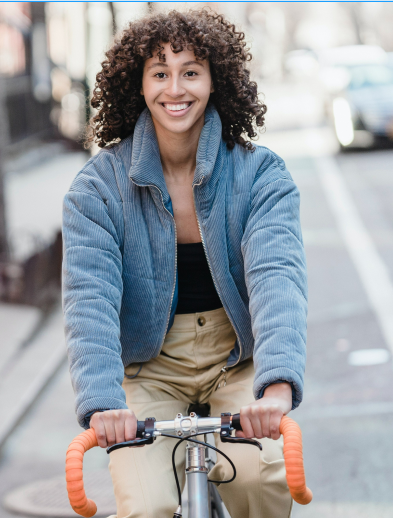
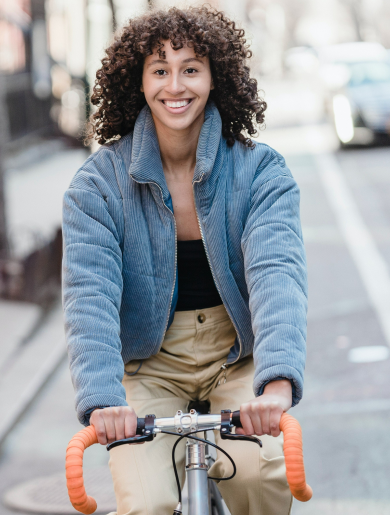
added styling

diff --git a/index.html b/index.html
@@ -9,31 +9,39 @@
 </head>
 <body>
     
-    <div>
-        <h1> Login</h1>
+    <div class="initialdiv">
 
-        <h5>Enter your credential to access your account.</h5>
+        <div class="firstdiv">    
+            <h1> Login</h1>
+            <h6>Enter your credential to access your account.</h6>
+            <a href="https://www.google.com"> 
+                <button class="google"><img class="logo" src="assets/google.png"> Login with Google</button></a>
+            
+            <div class="or">Or</div>
 
-        <a href="https://www.google.com"> <button class="google"> Login with Google</button></a>
+            <div class="email">
+                <span class="emailtext">Email address</span>
+            </div>
 
-        <div class="or">Or</div>
-
-        <div class="email">
-            <span class="emailtext">Email address</span>
             <input type="email">
-        </div>
 
-        <div class="password">
-            <span class="passwordtext">Password</span>
-            <a href="#">Forgot Password?</a>
+            <div class="password">
+                <span class="passwordtext">Password</span>
+                <span class="forgot"><a href="#">Forgot Password?</a></span> 
+            </div>
+
             <input type="password">
+            
+            <a href="#"><button class="login">Login</button></a>
+            
+            <span> Don't have an account? </span> 
+            
+            <a class="register" href="#"> Register here.</a>
+            
+            <div class="image"> <img src="assets/girl.png" alt="smiling girl on a bike"></div>
+        
         </div>
 
-        <button class="login">Login</button>
-        <span> Don't have an account? </span> 
-        <a class="register" href="#"> Register here.</a>
     </div>
-    <aside> <img src="assets/girl.png" alt="smiling girl on a bike"></aside>
-
 </body>
 </html>

diff --git a/style.css b/style.css
@@ -1,0 +1,77 @@
+*{
+    margin: 0;
+    padding: 0;
+    text-decoration: none;
+}
+
+body{
+    /* background-color: #f5f5f5 */
+    background-color: aqua;
+}
+
+.initialdiv{
+    display: flex;
+    justify-content: center;
+    text-align: center;
+    background-color: #ffffff;
+    margin: 50px;
+}
+
+.google{
+    height: 54px;
+    width: 100%;
+    margin-top: 35px;
+    background-color: #ffffff;
+    border-color: #dddddd;
+    border-style: solid;
+    border-radius: 6px;
+}
+
+.google:hover{
+    border-color: purple;
+}
+
+.logo{
+    height: 15px;
+    width: 15px;   
+}
+
+.email{
+    text-align: left;
+}
+
+.password{
+    justify-content: space-between;
+    display: flex;
+}
+
+input{
+    height: 54px;
+    width: 100%;
+    margin-bottom: 35px;
+    border-color: #dddddd;
+    border-style:solid;
+    border-radius: 6px;
+}
+
+input:hover{
+    border-radius: 0;
+    border-color: purple;
+}
+.login{
+    background-color: #2F80ED;
+    color: #ffffff;
+    height: 54px;
+    width: 100%;
+    margin-bottom: 15px;
+    border-style: none;
+    border-radius: 6px;
+}
+.login:hover{
+    border-style: solid;
+    border-color: purple;
+}
+
+.image{
+    
+}
